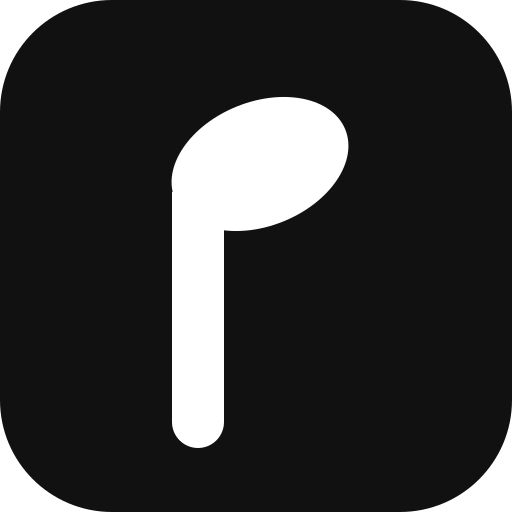
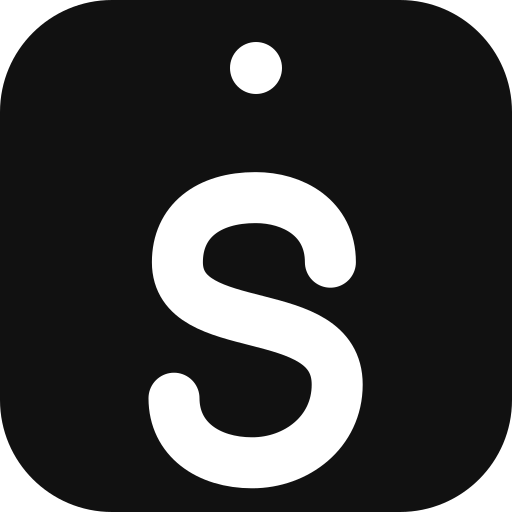
Rename to Stuckato: name, slogan (One bit at a time), S-with-dot mark; storage keys migrate from practicigo.*

Changed region(s): [[0.2812, 0.0625, 0.7188, 0.9688]]

diff --git a/index.html b/index.html
@@ -3,9 +3,9 @@
 <head>
 <meta charset="utf-8">
 <meta name="viewport" content="width=device-width, initial-scale=1">
-<title>Practicigo</title>
-<meta name="description" content="One note closer. Couch to 5K for practising an instrument, in a choir or in an orchestra. Your teacher sets the week; Practicigo gets you to practise every day.">
-<link rel="icon" type="image/svg+xml" href="icon-tile.svg?v=4"><link rel="apple-touch-icon" href="icon-192.png?v=4"><link rel="manifest" href="manifest.webmanifest"><meta name="theme-color" content="#111111">
+<title>Stuckato</title>
+<meta name="description" content="One bit at a time. Couch to 5K for practising an instrument, in a choir or in an orchestra. Your teacher sets the week; Stuckato gets you to practise every day.">
+<link rel="icon" type="image/svg+xml" href="icon-tile.svg?v=5"><link rel="apple-touch-icon" href="icon-192.png?v=5"><link rel="manifest" href="manifest.webmanifest"><meta name="theme-color" content="#111111">
 <link rel="preconnect" href="https://fonts.googleapis.com">
 <link rel="stylesheet" href="https://fonts.googleapis.com/css2?family=Plus+Jakarta+Sans:wght@500;600;700;800&display=swap">
 <style>
@@ -154,7 +154,7 @@ canvas.cardc{width:100%; max-width:420px; border-radius:16px; border:1px solid v
 <div class="wrap">
   <div id="demoBar" hidden></div>
   <header class="top">
-    <div class="brand"><h1><img src="wordmark.svg?v=4" alt="Practicigo" style="height:40px;display:block"></h1><small>One note closer.</small></div>
+    <div class="brand"><h1><img src="wordmark.svg?v=5" alt="Stuckato" style="height:40px;display:block"></h1><small>One bit at a time.</small></div>
     <div class="auth" id="auth"></div>
   </header>
 
@@ -246,7 +246,7 @@ canvas.cardc{width:100%; max-width:420px; border-radius:16px; border:1px solid v
   function toast(m){ const t=$('#toast'); t.textContent=m; t.classList.add('show'); clearTimeout(t._h); t._h=setTimeout(()=>t.classList.remove('show'),2000); }
 
   // ------------------------------------------------------------ store: local or cloud
-  const LKEY='practicigo.local.v1'; const LKEY_OLDS=['melodigo.local.v1'];
+  const LKEY='stuckato.local.v1'; const LKEY_OLDS=['practicigo.local.v1','melodigo.local.v1'];
   let mode='none'; // 'local' | 'cloud' | 'demo'
   let sb=null, me=null, cfg=null; // me: {role, name, studio, code, studio_id, voice_ready, voice_id}
   async function authHeaders(){ if(!sb) return {}; const {data:{session}}=await sb.auth.getSession(); return session?{authorization:'Bearer '+session.access_token}:{}; }
@@ -262,13 +262,13 @@ canvas.cardc{width:100%; max-width:420px; border-radius:16px; border:1px solid v
 
   async function saveStudent(st){
     if(mode==='local'){ const o=loadLocal()||{}; o.doc=st.data; saveLocal(o); return; }
-    if(mode==='demo'){ try{ localStorage.setItem('practicigo.demo.v1', JSON.stringify(students)); }catch(e){} return; }
+    if(mode==='demo'){ try{ localStorage.setItem('stuckato.demo.v1', JSON.stringify(students)); }catch(e){} return; }
     const {error}=await sb.rpc('practicigo_save_student',{target:st.user_id, doc:st.data}); if(error){ console.warn(error); throw error; }
   }
   async function saveCurrent(){
     if(!current) return;
     if(mode==='local'){ const o=loadLocal()||{}; o.doc=current.data; saveLocal(o); return; }
-    if(mode==='demo'){ try{ localStorage.setItem('practicigo.demo.v1', JSON.stringify(students)); }catch(e){} return; }
+    if(mode==='demo'){ try{ localStorage.setItem('stuckato.demo.v1', JSON.stringify(students)); }catch(e){} return; }
     clearTimeout(pushTimer); pushTimer=setTimeout(async()=>{ const {error}=await sb.rpc('practicigo_save_student',{target:current.user_id, doc:current.data}); if(error){ console.warn(error); toast('Could not save. Check your connection.'); } }, 500);
   }
   async function refresh(){
@@ -564,8 +564,8 @@ canvas.cardc{width:100%; max-width:420px; border-radius:16px; border:1px solid v
       <div class="row" style="justify-content:center"><button class="btn" id="shareBtn">Share the card</button><button class="btn quiet" id="dlBtn">Save the image</button></div>
       <p class="note" style="text-align:center">${w?'':'There is no week to show yet, so the card is a preview.'}</p>`;
     drawCard($('#cardc')); $('#backS').onclick=()=>renderTrail(true);
-    $('#shareBtn').onclick=async()=>{ const c=$('#cardc'); c.toBlob(async blob=>{ const file=new File([blob],'practicigo-week.png',{type:'image/png'}); if(navigator.canShare&&navigator.canShare({files:[file]})){ try{ await navigator.share({files:[file], title:'My practice week', text:'My week on Practicigo'}); }catch(e){} } else { const a=document.createElement('a'); a.href=URL.createObjectURL(blob); a.download='practicigo-week.png'; a.click(); toast('Saved. Share it from your photos.'); } },'image/png'); };
-    $('#dlBtn').onclick=()=>{ const c=$('#cardc'); c.toBlob(blob=>{ const a=document.createElement('a'); a.href=URL.createObjectURL(blob); a.download='practicigo-week.png'; a.click(); },'image/png'); };
+    $('#shareBtn').onclick=async()=>{ const c=$('#cardc'); c.toBlob(async blob=>{ const file=new File([blob],'stuckato-week.png',{type:'image/png'}); if(navigator.canShare&&navigator.canShare({files:[file]})){ try{ await navigator.share({files:[file], title:'My practice week', text:'My week on Stuckato'}); }catch(e){} } else { const a=document.createElement('a'); a.href=URL.createObjectURL(blob); a.download='stuckato-week.png'; a.click(); toast('Saved. Share it from your photos.'); } },'image/png'); };
+    $('#dlBtn').onclick=()=>{ const c=$('#cardc'); c.toBlob(blob=>{ const a=document.createElement('a'); a.href=URL.createObjectURL(blob); a.download='stuckato-week.png'; a.click(); },'image/png'); };
     if(showIt!==false) show('share');
   }
   function drawCard(c){
@@ -584,7 +584,7 @@ canvas.cardc{width:100%; max-width:420px; border-radius:16px; border:1px solid v
     ctx.strokeStyle='#E9E9E9'; ctx.lineWidth=2; for(let y=40;y<H;y+=42){ ctx.beginPath(); ctx.moveTo(0,y); ctx.lineTo(W,y); ctx.stroke(); }
     // box 1: the dates
     const from=w?fmt(w.lessonDate||w.createdAt):fmt(today()); const to=w&&w.nextLesson?fmt(w.nextLesson):null;
-    box(40,120); ctx.fillStyle='#111111'; ctx.font=F(800,34); ctx.fillText('Practicigo.',70,92); ctx.font=F(700,26); ctx.fillText('From '+from+(to?' to '+to:''),70,136);
+    box(40,120); ctx.fillStyle='#111111'; ctx.font=F(800,34); ctx.fillText('Stuckato.',70,92); ctx.font=F(700,26); ctx.fillText('From '+from+(to?' to '+to:''),70,136);
     // box 2: the pupil's week
     let y=190; box(y,270); label((p.name||'My')+"'s week",y+42);
     ctx.fillStyle='#111111'; ctx.font=F(800,52); ctx.fillText(w&&n===tot?'Week complete.':(n+' of '+tot+' days done.'),70,y+106);
@@ -629,7 +629,7 @@ canvas.cardc{width:100%; max-width:420px; border-radius:16px; border:1px solid v
         <p>On the mornings a session is due, ${h(doc().teacherName||'your teacher')} sends one short note: what you did last time, what is on today, and how long. Never twice in a day, never once the week is done.</p>
         <div class="row" id="remRow"><label class="switch" style="font-size:14px;color:var(--ink)"><input type="radio" name="rem" value="push" ${(p.reminder||'push')==='push'?'checked':''}> Notification on this phone</label><label class="switch" style="font-size:14px;color:var(--ink)"><input type="radio" name="rem" value="email" ${p.reminder==='email'?'checked':''}> Email${doc().contactEmail?' ('+h(doc().contactEmail)+')':''}</label><label class="switch" style="font-size:14px;color:var(--ink)"><input type="radio" name="rem" value="off" ${p.reminder==='off'?'checked':''}> Off</label></div>
         <div class="row" style="margin-top:10px"><button class="btn sm" id="pushOn">${doc().push?'Notifications are on for this phone':'Turn on notifications'}</button><button class="btn sm quiet" id="remTest">Send me today\'s message now</button><span class="status" id="remStatus" style="margin:0"></span></div>
-        <div class="note">${mode==='cloud'?'On an iPhone, add Practicigo to your Home Screen first (Share, then "Add to Home Screen"), then turn notifications on from there.':'Notifications need the live site with an account.'}</div></div>`;
+        <div class="note">${mode==='cloud'?'On an iPhone, add Stuckato to your Home Screen first (Share, then "Add to Home Screen"), then turn notifications on from there.':'Notifications need the live site with an account.'}</div></div>`;
     $('#backG').onclick=()=>renderTrail(true);
     $('#gSave').onclick=()=>{ p.goalLabel=$('#gLabel').value.trim(); p.goalDate=$('#gDate').value; p.part=$('#gPart').value.trim(); saveCurrent(); toast('Saved.'); renderTrail(true); };
     $$('#remRow input').forEach(r=>r.onchange=()=>{ p.reminder=r.value; saveCurrent(); toast(r.value==='off'?'No morning messages.':'Saved.'); });
@@ -663,11 +663,11 @@ canvas.cardc{width:100%; max-width:420px; border-radius:16px; border:1px solid v
     const v=$('#v-voice'); const has=!!me?.voice_ready;
     v.innerHTML=`<button class="btn sm quiet" id="voiceBack">← Pupils</button>
       <div class="eyebrow" style="margin-top:10px">Your voice</div><h2 class="big">${has?'Recorded.':'Pupils hear the week in your voice.'}</h2>
-      <p>${has?`Your voice is set${me.voice_name?' ('+h(me.voice_name)+')':''}. New weeks you publish are spoken in it. You can re-record or remove it at any time; removing it deletes the clone.`:'Read the passage below aloud, about thirty seconds, in the voice you use in a lesson. Practicigo makes a clone of it and every caption you publish is spoken by it. Only text you have read and published is ever spoken; nothing is generated that you have not approved.'}</p>
+      <p>${has?`Your voice is set${me.voice_name?' ('+h(me.voice_name)+')':''}. New weeks you publish are spoken in it. You can re-record or remove it at any time; removing it deletes the clone.`:'Read the passage below aloud, about thirty seconds, in the voice you use in a lesson. Stuckato makes a clone of it and every caption you publish is spoken by it. Only text you have read and published is ever spoken; nothing is generated that you have not approved.'}</p>
       ${cfg?.voice?'':'<div class="box c"><b>Voice is not configured on this deployment yet.</b> The captions will use the browser\'s built-in voice until it is.</div>'}
       <div class="script" id="voiceScript">${h(VOICE_SCRIPT)}</div>
       <div class="card" style="margin-top:12px">
-        <label class="switch" style="font-size:14.5px;color:var(--ink)"><input type="checkbox" id="consent"> I'm recording my own voice and I agree to Practicigo cloning it to speak captions I publish. I can delete it whenever I like.</label>
+        <label class="switch" style="font-size:14.5px;color:var(--ink)"><input type="checkbox" id="consent"> I'm recording my own voice and I agree to Stuckato cloning it to speak captions I publish. I can delete it whenever I like.</label>
         <div class="row" style="margin-top:12px"><button class="btn" id="recStart" ${cfg?.voice?'':'disabled'}>Record</button><button class="btn quiet" id="recStop" disabled>Stop</button><span class="rec" id="recInd" hidden><span class="blink"></span><span id="recTime">0:00</span></span></div>
         <audio id="recPlay" controls hidden style="width:100%;margin-top:10px"></audio>
         <div class="row" style="margin-top:10px"><button class="btn" id="voiceUse" disabled>Use this voice</button>${has?'<button class="btn danger" id="voiceDel">Remove my voice</button>':''}</div>
@@ -912,10 +912,10 @@ canvas.cardc{width:100%; max-width:420px; border-radius:16px; border:1px solid v
   let demoRole='pupil';
   function enterDemo(){
     mode='demo'; me={role:'teacher', name:'Melisande', studio:"Melisande's pupils", code:'DEMO01', studio_id:'demo', voice_ready:false};
-    let saved=null; try{ saved=JSON.parse(localStorage.getItem('practicigo.demo.v1')||'null'); }catch(e){} students=saved||demoSeed(); current=students[0];
+    let saved=null; try{ saved=JSON.parse(localStorage.getItem('stuckato.demo.v1')||'null'); }catch(e){} students=saved||demoSeed(); current=students[0];
     renderAuth(); renderDemoBar(); setDemoRole('pupil');
   }
-  function renderDemoBar(){ const b=$('#demoBar'); b.className='demo-bar'; b.hidden=false; b.innerHTML=`<span><b>Demo.</b> Nothing here is saved to an account. Switch sides:</span><span class="seg"><button data-r="pupil" class="${demoRole==='pupil'?'on':''}">Pupil</button><button data-r="teacher" class="${demoRole==='teacher'?'on':''}">Teacher</button><button data-r="share" class="${demoRole==='share'?'on':''}">Parent's view</button></span><button class="x" id="demoReset">Reset demo</button>`; $$('#demoBar [data-r]').forEach(x=>x.onclick=()=>setDemoRole(x.dataset.r)); $('#demoReset').onclick=()=>{ try{ localStorage.removeItem('practicigo.demo.v1'); }catch(e){} students=demoSeed(); current=students[0]; setDemoRole(demoRole); }; }
+  function renderDemoBar(){ const b=$('#demoBar'); b.className='demo-bar'; b.hidden=false; b.innerHTML=`<span><b>Demo.</b> Nothing here is saved to an account. Switch sides:</span><span class="seg"><button data-r="pupil" class="${demoRole==='pupil'?'on':''}">Pupil</button><button data-r="teacher" class="${demoRole==='teacher'?'on':''}">Teacher</button><button data-r="share" class="${demoRole==='share'?'on':''}">Parent's view</button></span><button class="x" id="demoReset">Reset demo</button>`; $$('#demoBar [data-r]').forEach(x=>x.onclick=()=>setDemoRole(x.dataset.r)); $('#demoReset').onclick=()=>{ try{ localStorage.removeItem('stuckato.demo.v1'); }catch(e){} students=demoSeed(); current=students[0]; setDemoRole(demoRole); }; }
   function setDemoRole(r){ demoRole=r; renderDemoBar(); if(r==='teacher'){ setTabs('teacher'); renderTeacher(); } else if(r==='share'){ current=students[0]; setTabs('student'); renderShare(); } else { current=students[0]; setTabs('student'); renderToday(); } }
 
   // ------------------------------------------------------------ the morning message: push subscription + test send
@@ -923,7 +923,7 @@ canvas.cardc{width:100%; max-width:420px; border-radius:16px; border:1px solid v
   async function enablePush(){
     const st=$('#remStatus');
     if(mode!=='cloud'){ st.textContent='Sign in on the live site first.'; return; }
-    if(!('serviceWorker' in navigator)||!('PushManager' in window)){ st.textContent='This browser cannot show notifications. On an iPhone, add Practicigo to the Home Screen first.'; return; }
+    if(!('serviceWorker' in navigator)||!('PushManager' in window)){ st.textContent='This browser cannot show notifications. On an iPhone, add Stuckato to the Home Screen first.'; return; }
     if(!cfg?.vapidPublicKey){ st.textContent='Notifications are not configured on this deployment yet.'; return; }
     try{
       const reg=await navigator.serviceWorker.register('/sw.js'); await navigator.serviceWorker.ready;

diff --git a/api/notify.js b/api/notify.js
@@ -33,7 +33,7 @@ export default async function handler(req, res) {
   const when = new Date().toLocaleTimeString("en-GB", { hour: "2-digit", minute: "2-digit", timeZone: "Europe/London" });
   const text = `${name} finished ${day && of ? `day ${day} of ${of}` : "a session"}${title ? ` (${title})` : ""} at ${when}${minutes ? `, ${minutes} minutes` : ", in their own time"}.\n\nThey wrote: "${note}"\n\nConfirm it, ask them a question, or take the token back: ${process.env.APP_URL || "https://practicigo.app"}\n\nYou get this because you ticked "Tell me when they finish" on ${name}'s page.`;
   const r = await fetch("https://api.resend.com/emails", { method: "POST", headers: { authorization: `Bearer ${resend}`, "content-type": "application/json" },
-    body: JSON.stringify({ from: process.env.REMINDER_FROM || "Practicigo <onboarding@resend.dev>", to: [teacher.email], subject: `${name} finished today's practice`, text }) });
+    body: JSON.stringify({ from: process.env.REMINDER_FROM || "Stuckato <onboarding@resend.dev>", to: [teacher.email], subject: `${name} finished today's practice`, text }) });
   if (!r.ok) return res.status(502).json({ sent: false, reason: `resend ${r.status}` });
   return res.status(200).json({ sent: true });
 }

diff --git a/api/reminders.js b/api/reminders.js
@@ -40,7 +40,7 @@ async function sendPush(sub, msg) {
 async function sendEmail(to, msg, tn) {
   const key = process.env.RESEND_API_KEY; if (!key) throw new Error("email_not_configured");
   const r = await fetch("https://api.resend.com/emails", { method: "POST", headers: { authorization: `Bearer ${key}`, "content-type": "application/json" },
-    body: JSON.stringify({ from: process.env.REMINDER_FROM || "Practicigo <onboarding@resend.dev>", to: [to], subject: `${tn}: today's practice`, text: `${msg.body}\n\nOpen Practicigo: ${msg.url}\n\nYou get one of these on the mornings a session is due. Change it under Goal in the app.` }) });
+    body: JSON.stringify({ from: process.env.REMINDER_FROM || "Stuckato <onboarding@resend.dev>", to: [to], subject: `${tn}: today's practice`, text: `${msg.body}\n\nOpen Practicigo: ${msg.url}\n\nYou get one of these on the mornings a session is due. Change it under Goal in the app.` }) });
   if (!r.ok) throw new Error(`resend ${r.status}: ${(await r.text()).slice(0, 200)}`);
 }
 

diff --git a/sw.js b/sw.js
@@ -1,9 +1,9 @@
-// Practicigo service worker: shows the morning message as a notification and opens the app when tapped.
+// Stuckato service worker: shows the morning message as a notification and opens the app when tapped.
 self.addEventListener('install', () => self.skipWaiting());
 self.addEventListener('activate', (e) => e.waitUntil(self.clients.claim()));
 self.addEventListener('push', (e) => {
   let d = {}; try { d = e.data ? e.data.json() : {}; } catch (x) { d = { body: e.data && e.data.text() }; }
-  e.waitUntil(self.registration.showNotification(d.title || 'Practicigo', { body: d.body || '', icon: '/icon-192.png', badge: '/icon-192.png', data: { url: d.url || '/' }, tag: 'practicigo-morning' }));
+  e.waitUntil(self.registration.showNotification(d.title || 'Stuckato', { body: d.body || '', icon: '/icon-192.png', badge: '/icon-192.png', data: { url: d.url || '/' }, tag: 'practicigo-morning' }));
 });
 self.addEventListener('notificationclick', (e) => {
   e.notification.close();

diff --git a/api/voice.js b/api/voice.js
@@ -23,8 +23,8 @@ export default async function handler(req, res) {
   const bytes = Buffer.from(audio, "base64");
   const ext = /mp4|m4a|aac/.test(mime) ? "m4a" : /ogg/.test(mime) ? "ogg" : /wav/.test(mime) ? "wav" : "webm";
   const form = new FormData();
-  form.append("name", `Practicigo · ${String(name).slice(0, 40)}`);
-  form.append("description", "Teacher's voice for practice captions. Recorded in Practicigo with consent.");
+  form.append("name", `Stuckato · ${String(name).slice(0, 40)}`);
+  form.append("description", "Teacher's voice for practice captions. Recorded in Stuckato with consent.");
   form.append("remove_background_noise", "true");
   form.append("files", new Blob([bytes], { type: mime }), `sample.${ext}`);
   const r = await fetch("https://api.elevenlabs.io/v1/voices/add", { method: "POST", headers: { "xi-api-key": xi }, body: form });

diff --git a/api/plan.js b/api/plan.js
@@ -1,4 +1,4 @@
-// Practicigo: turns a teacher's thirty-second lesson note (or a conductor's rehearsal note) into the pupil's week: three guided sessions
+// Stuckato: turns a teacher's thirty-second lesson note (or a conductor's rehearsal note) into the pupil's week: three guided sessions
 // (steps, minutes, what the teacher's voice says) and a checklist for the next lesson.
 import Anthropic from "@anthropic-ai/sdk";
 

diff --git a/README.md b/README.md
@@ -1,8 +1,8 @@
-<p align="center"><img src="logo.svg" alt="Practicigo. One note closer." width="420"></p>
+<p align="center"><img src="logo.svg" alt="Stuckato. One bit at a time." width="420"></p>
 
-# Practicigo
+# Stuckato
 
-**One note closer.** Couch to 5K for practising an instrument, on your own with a teacher or as part of a choir or orchestra. Your teacher sets the week in thirty seconds; Practicigo gets you to practise every day.
+**One bit at a time.** Couch to 5K for practising an instrument, on your own with a teacher or as part of a choir or orchestra. Your teacher sets the week in thirty seconds; Stuckato gets you to practise every day.
 
 **Live:** https://practicigo.app
 
@@ -10,7 +10,7 @@
 
 Every practice app is one of two things: it listens to you play and scores the notes (Yousician, Simply Piano, Trala), or it's a diary where you log your minutes (Tonara, Modacity). Both leave you alone on the part that matters, which is turning up three times a week when nobody is making you. Couch to 5K never measured anyone's running; it had a calm voice, a structure, and a reason to go out on Thursday. Nobody had done that for practising an instrument.
 
-Practicigo has two sides. The **teacher** writes a thirty-second note after each lesson (what we worked on, what to prepare, one line for the week) and sets how many minutes a day; Practicigo turns it into that pupil's week: one short guided session for every day, with step-by-step captions in the teacher's voice, a work list, and a checklist for the next lesson. The **pupil** runs each day's session (or practises on their own and just ticks), then ticks what they worked on from the work list, flags questions and breakthroughs while they're fresh, and keeps a streak that forgives a missed day. Before the next lesson the teacher sees what was worked on most, and the next week is planned around it. A **conductor** does the same for a whole choir or orchestra: one rehearsal note becomes a week for every member, each for their own part.
+Stuckato has two sides. The **teacher** writes a thirty-second note after each lesson (what we worked on, what to prepare, one line for the week) and sets how many minutes a day; Stuckato turns it into that pupil's week: one short guided session for every day, with step-by-step captions in the teacher's voice, a work list, and a checklist for the next lesson. The **pupil** runs each day's session (or practises on their own and just ticks), then ticks what they worked on from the work list, flags questions and breakthroughs while they're fresh, and keeps a streak that forgives a missed day. Before the next lesson the teacher sees what was worked on most, and the next week is planned around it. A **conductor** does the same for a whole choir or orchestra: one rehearsal note becomes a week for every member, each for their own part.
 
 ## What's in v0.7 (16 September 2026)
 
@@ -20,7 +20,7 @@ Practicigo has two sides. The **teacher** writes a thirty-second note after each
 - **Tell me when they finish.** A per-pupil switch on the pupil page; when on, the teacher gets an email the moment the sentence is saved (`api/notify.js`, Resend; silent if email is not configured).
 - **The play-through.** The day before the lesson (or once every day is done) Today asks for one recording of the piece, all the way through, up to five minutes. It uploads to the audio bucket under `<studio>/recordings/<pupil>/<week>`; the teacher gets a player, *Heard it*, and a one-line reply that goes to the pupil now and is pre-filled as next week's "What you did well". The week's two bonus tokens wait for it. The bucket is public-read, so anyone with the exact URL can play a recording: fine for the pilot, move recordings to a private bucket before it grows.
 - **The light on the goal.** A dot and a word next to the goal, on Today, the Goal tab and the teacher's list: green *On track* (80%+ of the goal-weeks so far had practice in them), amber *Slipping* (50 to 79%), red *Talk about the date* (under 50%), dropped one level when it is day five or later with fewer than two days done. The one place colour is used for something other than a flag.
-- New name: Practicigo, with the i before *go* as a crotchet.
+- Name: Stuckato (stuck + staccato). Mark: the S with a staccato dot above it.
 - Demo views: `?demo=done`, `?demo=fermata`, `?demo=pupilpage`, `?demo=pupil2` (the pupil whose play-through is due).
 
 ## What's in v0.3 (14 September 2026)
@@ -54,7 +54,7 @@ Practicigo has two sides. The **teacher** writes a thirty-second note after each
 - **A named reward.** The teacher writes what six tokens earns ("a hot chocolate after Thursday's lesson"); the pupil sees it on their Journey, and the teacher marks it given
 - **The teacher sets the practice time.** Level is a dropdown (beginner, grades 1 to 3, 4 to 6, 7 to 8, returning adult, advanced) and each level suggests minutes a day (20, 25, 40, 60, 25, 75); the teacher can override it per pupil, up to 120. The sessions are written to that length and the pupil's Today screen says who set it
 - **The morning message.** On any morning a session is due, the pupil gets one note from the teacher: what they did last time and how they said it felt, what is on today and how long. Never twice a day, nothing once the week is done. Delivered as a phone notification (web push, the app added to the Home Screen) or by email; the pupil chooses under Goal and can send themselves today's message to check it. A daily Vercel cron (`/api/reminders`, 06:30 UTC) does the sending and logs every send against the pupil, so completion within the day can be measured
-- Installable: manifest, icons and a service worker, so Practicigo sits on the Home Screen like an app
+- Installable: manifest, icons and a service worker, so Stuckato sits on the Home Screen like an app
 
 ## What was in v0.2
 
@@ -63,7 +63,7 @@ Practicigo has two sides. The **teacher** writes a thirty-second note after each
 - **Pupil:** Today (next session, streak, week dots), a session runner with a progress ring, captions, optional read-aloud (browser speech), pause/skip/stop, and "how did it feel"; Journey (path from lesson to lesson, checklist, flags, tokens); Goal (date, weeks to go, road phases)
 - Tokens: one per session, two more for a full week; six is a small reward the teacher marks as given
 - **See how it works:** a demo with three pupils and a week already set, switchable between the pupil's side, the teacher's side and the parent's view, no sign-in
-- **The teacher's voice:** on first use the teacher reads a thirty-second passage with a consent box ticked; Practicigo clones the voice (ElevenLabs) and every caption in every published week is spoken in it. Only text the teacher has previewed and published is ever spoken; the teacher can re-record or delete the clone at any time, and deleting it removes it from ElevenLabs too. Pupils are told it's generated
+- **The teacher's voice:** on first use the teacher reads a thirty-second passage with a consent box ticked; Stuckato clones the voice (ElevenLabs) and every caption in every published week is spoken in it. Only text the teacher has previewed and published is ever spoken; the teacher can re-record or delete the clone at any time, and deleting it removes it from ElevenLabs too. Pupils are told it's generated
 - **Dictated notes:** every note field has a Dictate button. Browser speech recognition where it exists (Chrome, Safari), server transcription as the fallback
 - **Share card:** the pupil turns their week into an image (sessions, minutes, streak, checklist, the teacher's line) and shares it with a parent or anyone they choose, from their own phone. Nothing is shared unless the pupil sends it; nothing else about them is in it
 - Works on this device with no account, so anyone can try the whole loop alone (you play both sides)
@@ -117,7 +117,7 @@ Open `index.html` in a browser and choose "Try it on this device". Accounts and 
 
 ## The name
 
-*Practicigo* (from 16 September 2026; Melodigo before that, Sostenuto and Rosin before that): *practice* and *go*. Spelt with a c, the way people type it; practisigo redirects. The mark is the i before *go* drawn as a crotchet: a note, no flag, nobody racing anybody. Black and white, like a piano, like the page. The line under it: *One note closer.* The database objects are `practicigo_*`; only the audio bucket id, `melodigo-audio`, keeps the old word, because every stored audio URL embeds it.
+*Stuckato* (from 17 September 2026; Stuckato, Melodigo, Sostenuto and Rosin before that): *stuck* and *staccato*. Practice in short, detached bursts, one bit at a time, so nobody stays stuck between lessons. Database objects keep the `practicigo_` prefix from the previous name; renaming them would need another migration and gains nothing.
 
 ## Founders
 
